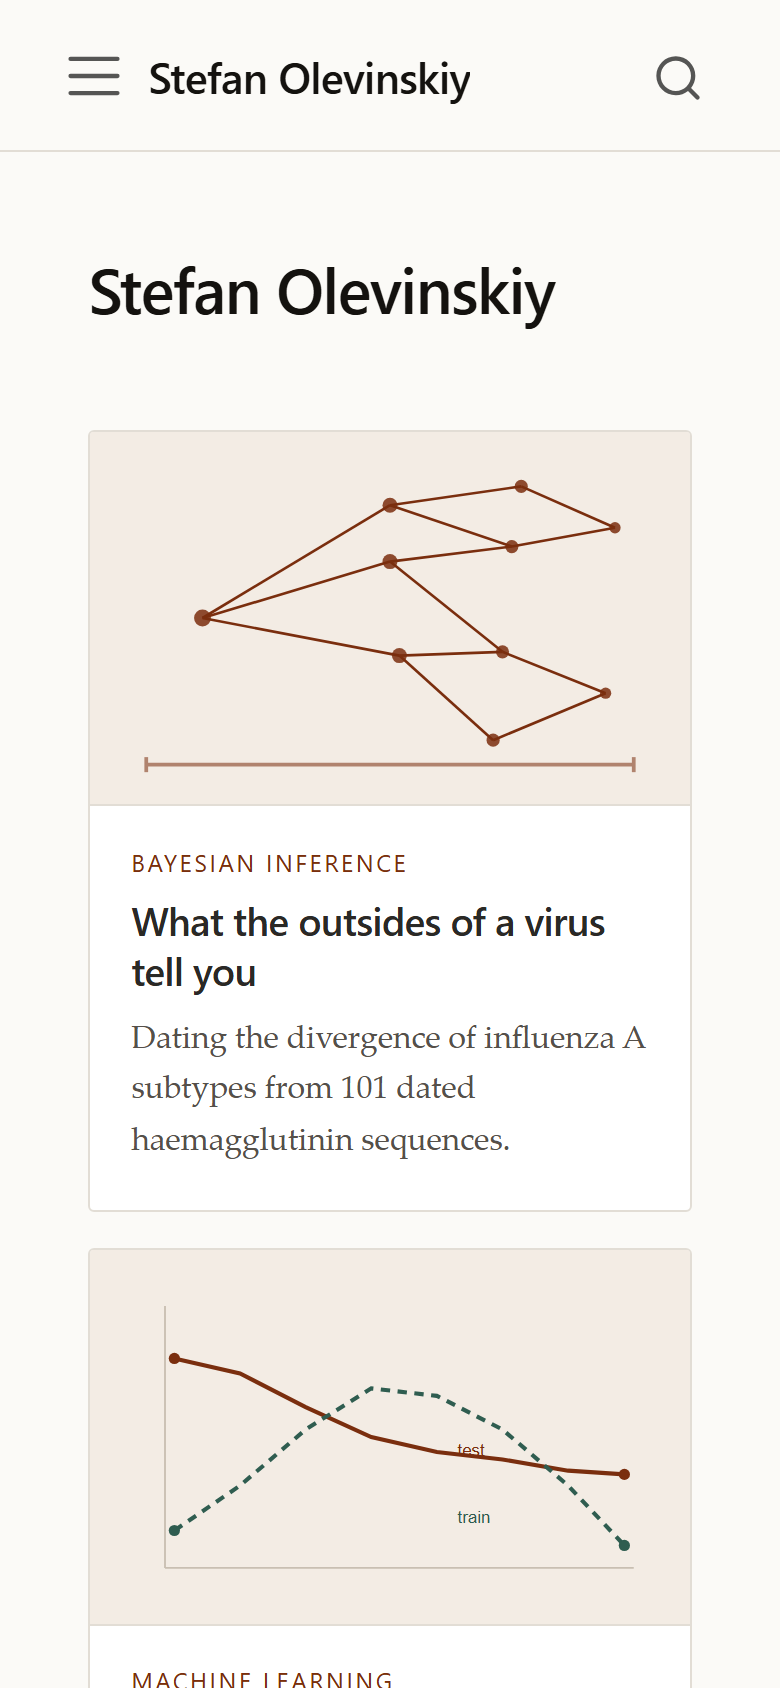
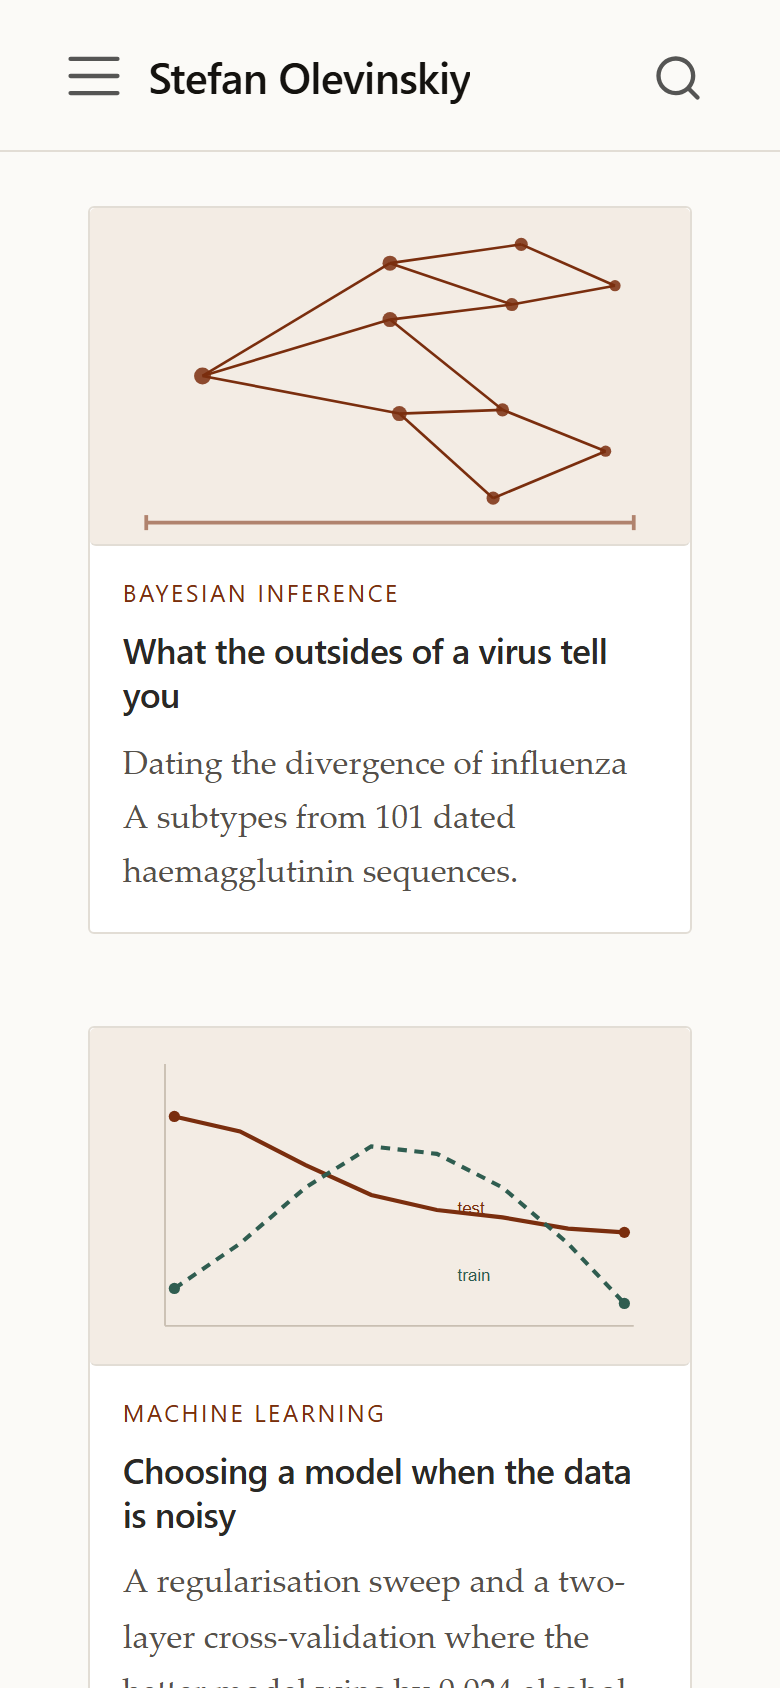
Mobile: scrollable tab row, tighter top, phone type scale

diff --git a/docs/styles.css b/docs/styles.css
@@ -390,10 +390,31 @@ figure img { max-width: 100%; height: auto; }
   overflow-x: auto;
 }
 
-/* ---- small screens ---- */
+/* ---- phones ---- */
 @media (max-width: 720px) {
-  /* Quarto draws a box around the tab panel; on a phone it reads as a second
-     column inset inside the padding. Drop the frame and the indent. */
+
+  /* The navbar already prints the name. The h1 repeating it read as a page
+     whose first screen was empty. On phones the hero is just the lead line. */
+  #title-block-header h1.title {
+    display: none;
+  }
+  #title-block-header {
+    margin-bottom: 0.4rem;
+  }
+  /* hiding the h1 leaves the block's top padding floating with nothing in it */
+  .quarto-title-block.default .quarto-title-banner,
+  .quarto-title-block {
+    padding-top: 0 !important;
+    margin-top: 0 !important;
+  }
+  #quarto-document-content > .quarto-title-block + p,
+  #quarto-document-content > p:first-of-type { margin-top: 0.2rem !important; }
+  #quarto-document-content > p:first-of-type {
+    font-size: 1.02rem;
+  }
+
+  /* Quarto frames the tab panel; on a phone that reads as an inset second
+     column. Drop the frame and the indent. */
   .panel-tabset .tab-content {
     border: none;
     padding-left: 0;
@@ -401,30 +422,85 @@ figure img { max-width: 100%; height: auto; }
   }
   .panel-tabset .tab-content > .tab-pane { padding: 0; }
 
-  /* tabs get tighter and wrap into fewer rows */
-  .panel-tabset .nav-tabs {
-    gap: 0.1rem 1rem;
-    border-bottom: 1px solid var(--rule, #dcd4c8);
-    margin-bottom: 1.1rem;
+  /* Article titles: 3 lines of 2 words is not a title, it is a wall. */
+  h1, h1.title, #quarto-document-content h1 {
+    font-size: 1.6rem;
+    line-height: 1.18;
+    letter-spacing: -0.01em;
   }
-  .panel-tabset .nav-tabs .nav-link {
-    padding: 0.5rem 0.1rem;
-    font-size: 0.74rem;
-    letter-spacing: 0.04em;
+  h2, #quarto-document-content h2 { font-size: 1.22rem; line-height: 1.25; }
+  h3, #quarto-document-content h3 { font-size: 1.04rem; }
+
+  p.subtitle {
+    font-size: 0.88rem;
+    line-height: 1.45;
+    margin-top: 0.5rem;
   }
 
-  /* prose: a touch more leading at phone width */
+  /* Tabs: 6 keywords wrapping into 4 ragged rows ate half the first screen.
+     One scrollable row, no wrap, with a fade so it is obviously scrollable. */
+  .panel-tabset .nav-tabs {
+    flex-wrap: nowrap;
+    overflow-x: auto;
+    overflow-y: hidden;
+    -webkit-overflow-scrolling: touch;
+    scrollbar-width: none;
+    gap: 0 1.15rem;
+    border-bottom: 1px solid var(--rule, #dcd4c8);
+    margin-bottom: 1.2rem;
+    padding-bottom: 0;
+    mask-image: linear-gradient(to right, #000 88%, transparent 100%);
+    -webkit-mask-image: linear-gradient(to right, #000 88%, transparent 100%);
+  }
+  .panel-tabset .nav-tabs::-webkit-scrollbar { display: none; }
+  .panel-tabset .nav-tabs .nav-link {
+    flex: 0 0 auto;
+    white-space: nowrap;
+    padding: 0.55rem 0;
+    font-size: 0.7rem;
+    letter-spacing: 0.06em;
+  }
+
+  /* Cards: full-bleed image, tighter text block under it. */
+  .piece {
+    margin-bottom: 1.6rem;
+  }
+  /* four cards stacked down a phone: halve the gap under the navbar */
+  /* Measured, not guessed: the gap above content is .quarto-container's 34px
+     padding plus main's 16px margin. Collapse both on a phone. */
+  .quarto-container { padding-top: 0.5rem !important; }
+  main.content { margin-top: 0 !important; }
+  #quarto-document-content { padding-top: 0 !important; }
+  .work { margin-top: 1.1rem; }
+  #title-block-header { margin-bottom: 0.2rem; }
+  .piece .thumb {
+    aspect-ratio: 16 / 9;
+    border-radius: 3px;
+  }
+  .piece .body { padding: 0.85rem 0.95rem 1rem; }
+  .piece-title { font-size: 1.05rem; line-height: 1.28; }
+  .piece-desc { font-size: 0.85rem; line-height: 1.5; }
+  .kicker { font-size: 0.62rem; letter-spacing: 0.1em; }
+
+  /* Prose: text sized for a phone, not a poster. */
   #quarto-document-content p,
   #quarto-document-content li {
     max-width: none;
-    line-height: 1.62;
+    font-size: 0.97rem;
+    line-height: 1.65;
   }
-  #quarto-document-content h1 { font-size: 1.85rem; line-height: 1.2; }
-  #quarto-document-content h2 { font-size: 1.35rem; }
+  #quarto-document-content { font-size: 0.97rem; }
 
-  /* the four-card grid already collapses at 720; keep the thumb 16:10 */
-  .piece .thumb { aspect-ratio: 16 / 10; }
+  /* Code is allowed to scroll sideways; it must never set the page width. */
+  pre, pre.sourceCode, .sourceCode code {
+    font-size: 0.78rem;
+    line-height: 1.5;
+  }
 
-  figure { margin: 1.5rem 0; }
-  figcaption { font-size: 0.82rem; }
+  figure { margin: 1.4rem 0; }
+  figcaption { font-size: 0.79rem; line-height: 1.45; }
+
+  /* A phone has no hover; make the whole card obviously tappable. */
+  .piece-link { display: block; }
+  a, .nav-link { -webkit-tap-highlight-color: rgba(122, 46, 14, 0.12); }
 }

diff --git a/styles.css b/styles.css
@@ -390,10 +390,31 @@ figure img { max-width: 100%; height: auto; }
   overflow-x: auto;
 }
 
-/* ---- small screens ---- */
+/* ---- phones ---- */
 @media (max-width: 720px) {
-  /* Quarto draws a box around the tab panel; on a phone it reads as a second
-     column inset inside the padding. Drop the frame and the indent. */
+
+  /* The navbar already prints the name. The h1 repeating it read as a page
+     whose first screen was empty. On phones the hero is just the lead line. */
+  #title-block-header h1.title {
+    display: none;
+  }
+  #title-block-header {
+    margin-bottom: 0.4rem;
+  }
+  /* hiding the h1 leaves the block's top padding floating with nothing in it */
+  .quarto-title-block.default .quarto-title-banner,
+  .quarto-title-block {
+    padding-top: 0 !important;
+    margin-top: 0 !important;
+  }
+  #quarto-document-content > .quarto-title-block + p,
+  #quarto-document-content > p:first-of-type { margin-top: 0.2rem !important; }
+  #quarto-document-content > p:first-of-type {
+    font-size: 1.02rem;
+  }
+
+  /* Quarto frames the tab panel; on a phone that reads as an inset second
+     column. Drop the frame and the indent. */
   .panel-tabset .tab-content {
     border: none;
     padding-left: 0;
@@ -401,30 +422,85 @@ figure img { max-width: 100%; height: auto; }
   }
   .panel-tabset .tab-content > .tab-pane { padding: 0; }
 
-  /* tabs get tighter and wrap into fewer rows */
-  .panel-tabset .nav-tabs {
-    gap: 0.1rem 1rem;
-    border-bottom: 1px solid var(--rule, #dcd4c8);
-    margin-bottom: 1.1rem;
+  /* Article titles: 3 lines of 2 words is not a title, it is a wall. */
+  h1, h1.title, #quarto-document-content h1 {
+    font-size: 1.6rem;
+    line-height: 1.18;
+    letter-spacing: -0.01em;
   }
-  .panel-tabset .nav-tabs .nav-link {
-    padding: 0.5rem 0.1rem;
-    font-size: 0.74rem;
-    letter-spacing: 0.04em;
+  h2, #quarto-document-content h2 { font-size: 1.22rem; line-height: 1.25; }
+  h3, #quarto-document-content h3 { font-size: 1.04rem; }
+
+  p.subtitle {
+    font-size: 0.88rem;
+    line-height: 1.45;
+    margin-top: 0.5rem;
   }
 
-  /* prose: a touch more leading at phone width */
+  /* Tabs: 6 keywords wrapping into 4 ragged rows ate half the first screen.
+     One scrollable row, no wrap, with a fade so it is obviously scrollable. */
+  .panel-tabset .nav-tabs {
+    flex-wrap: nowrap;
+    overflow-x: auto;
+    overflow-y: hidden;
+    -webkit-overflow-scrolling: touch;
+    scrollbar-width: none;
+    gap: 0 1.15rem;
+    border-bottom: 1px solid var(--rule, #dcd4c8);
+    margin-bottom: 1.2rem;
+    padding-bottom: 0;
+    mask-image: linear-gradient(to right, #000 88%, transparent 100%);
+    -webkit-mask-image: linear-gradient(to right, #000 88%, transparent 100%);
+  }
+  .panel-tabset .nav-tabs::-webkit-scrollbar { display: none; }
+  .panel-tabset .nav-tabs .nav-link {
+    flex: 0 0 auto;
+    white-space: nowrap;
+    padding: 0.55rem 0;
+    font-size: 0.7rem;
+    letter-spacing: 0.06em;
+  }
+
+  /* Cards: full-bleed image, tighter text block under it. */
+  .piece {
+    margin-bottom: 1.6rem;
+  }
+  /* four cards stacked down a phone: halve the gap under the navbar */
+  /* Measured, not guessed: the gap above content is .quarto-container's 34px
+     padding plus main's 16px margin. Collapse both on a phone. */
+  .quarto-container { padding-top: 0.5rem !important; }
+  main.content { margin-top: 0 !important; }
+  #quarto-document-content { padding-top: 0 !important; }
+  .work { margin-top: 1.1rem; }
+  #title-block-header { margin-bottom: 0.2rem; }
+  .piece .thumb {
+    aspect-ratio: 16 / 9;
+    border-radius: 3px;
+  }
+  .piece .body { padding: 0.85rem 0.95rem 1rem; }
+  .piece-title { font-size: 1.05rem; line-height: 1.28; }
+  .piece-desc { font-size: 0.85rem; line-height: 1.5; }
+  .kicker { font-size: 0.62rem; letter-spacing: 0.1em; }
+
+  /* Prose: text sized for a phone, not a poster. */
   #quarto-document-content p,
   #quarto-document-content li {
     max-width: none;
-    line-height: 1.62;
+    font-size: 0.97rem;
+    line-height: 1.65;
   }
-  #quarto-document-content h1 { font-size: 1.85rem; line-height: 1.2; }
-  #quarto-document-content h2 { font-size: 1.35rem; }
+  #quarto-document-content { font-size: 0.97rem; }
 
-  /* the four-card grid already collapses at 720; keep the thumb 16:10 */
-  .piece .thumb { aspect-ratio: 16 / 10; }
+  /* Code is allowed to scroll sideways; it must never set the page width. */
+  pre, pre.sourceCode, .sourceCode code {
+    font-size: 0.78rem;
+    line-height: 1.5;
+  }
 
-  figure { margin: 1.5rem 0; }
-  figcaption { font-size: 0.82rem; }
+  figure { margin: 1.4rem 0; }
+  figcaption { font-size: 0.79rem; line-height: 1.45; }
+
+  /* A phone has no hover; make the whole card obviously tappable. */
+  .piece-link { display: block; }
+  a, .nav-link { -webkit-tap-highlight-color: rgba(122, 46, 14, 0.12); }
 }

diff --git a/probe_gap.py b/probe_gap.py
@@ -1,0 +1,47 @@
+"""Find which element is eating the vertical space above the page content on a phone."""
+import threading
+from functools import partial
+from http.server import SimpleHTTPRequestHandler, ThreadingHTTPServer
+
+from playwright.sync_api import sync_playwright
+
+ROOT = r"D:\site\docs"
+PORT = 8897
+
+PROBE = """
+(function () {
+  var out = [];
+  var nav = document.querySelector('.navbar');
+  var out_r = nav ? nav.getBoundingClientRect() : null;
+  var walk = document.querySelector('#quarto-document-content') || document.body;
+  var first = walk.querySelector('p, .quarto-title-block, .panel-tabset');
+  var r = first ? first.getBoundingClientRect() : null;
+  var chain = [];
+  var el = first;
+  while (el && el !== document.body) {
+    var cs = getComputedStyle(el);
+    chain.push({el: el.tagName + '.' + (el.className || '').toString().slice(0,40),
+                mt: cs.marginTop, pt: cs.paddingTop, top: Math.round(el.getBoundingClientRect().top)});
+    el = el.parentElement;
+  }
+  return {navBottom: out_r ? Math.round(out_r.bottom) : null,
+          firstTop: r ? Math.round(r.top) : null, chain: chain};
+})()
+"""
+
+handler = partial(SimpleHTTPRequestHandler, directory=ROOT)
+httpd = ThreadingHTTPServer(("127.0.0.1", PORT), handler)
+threading.Thread(target=httpd.serve_forever, daemon=True).start()
+
+with sync_playwright() as p:
+    b = p.chromium.launch()
+    pg = b.new_page(viewport={"width": 390, "height": 844})
+    for rel in ["articles/systems.html", "index.html"]:
+        pg.goto(f"http://127.0.0.1:{PORT}/{rel}", wait_until="load")
+        pg.wait_for_timeout(300)
+        res = pg.evaluate(PROBE)
+        print(f"\n--- {rel} --- navBottom={res['navBottom']} firstTop={res['firstTop']}")
+        for c in res["chain"]:
+            print(f"   {c['el'][:44]:46} top={c['top']:4}  margin-top={c['mt']:10} padding-top={c['pt']}")
+    b.close()
+httpd.shutdown()
